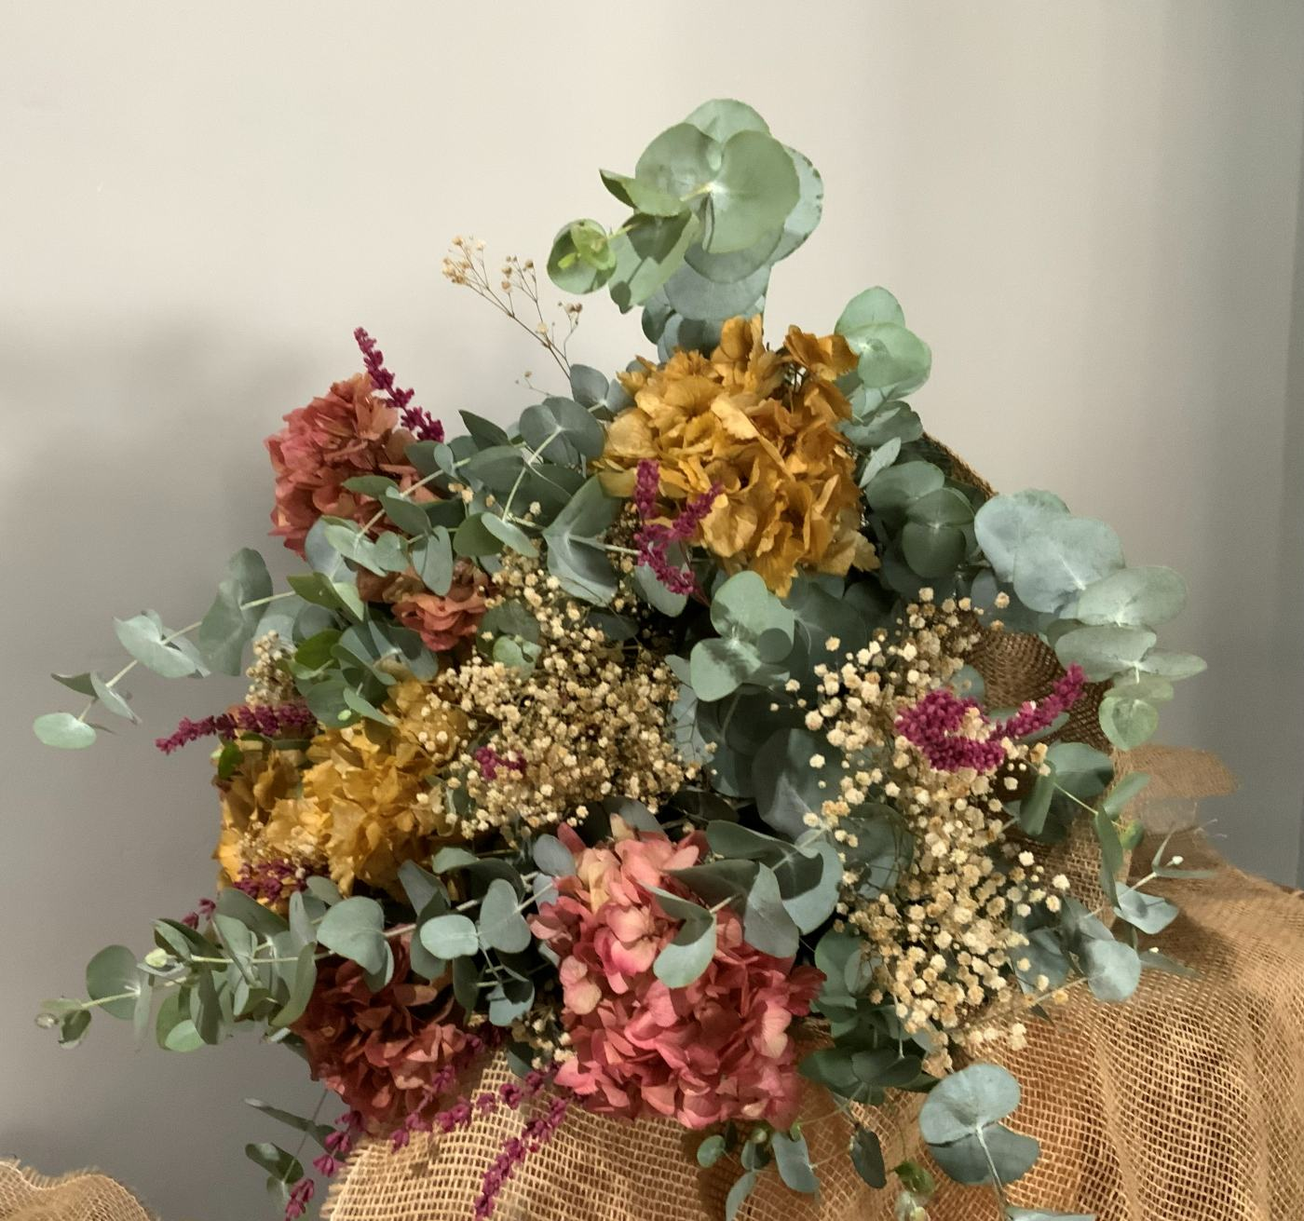
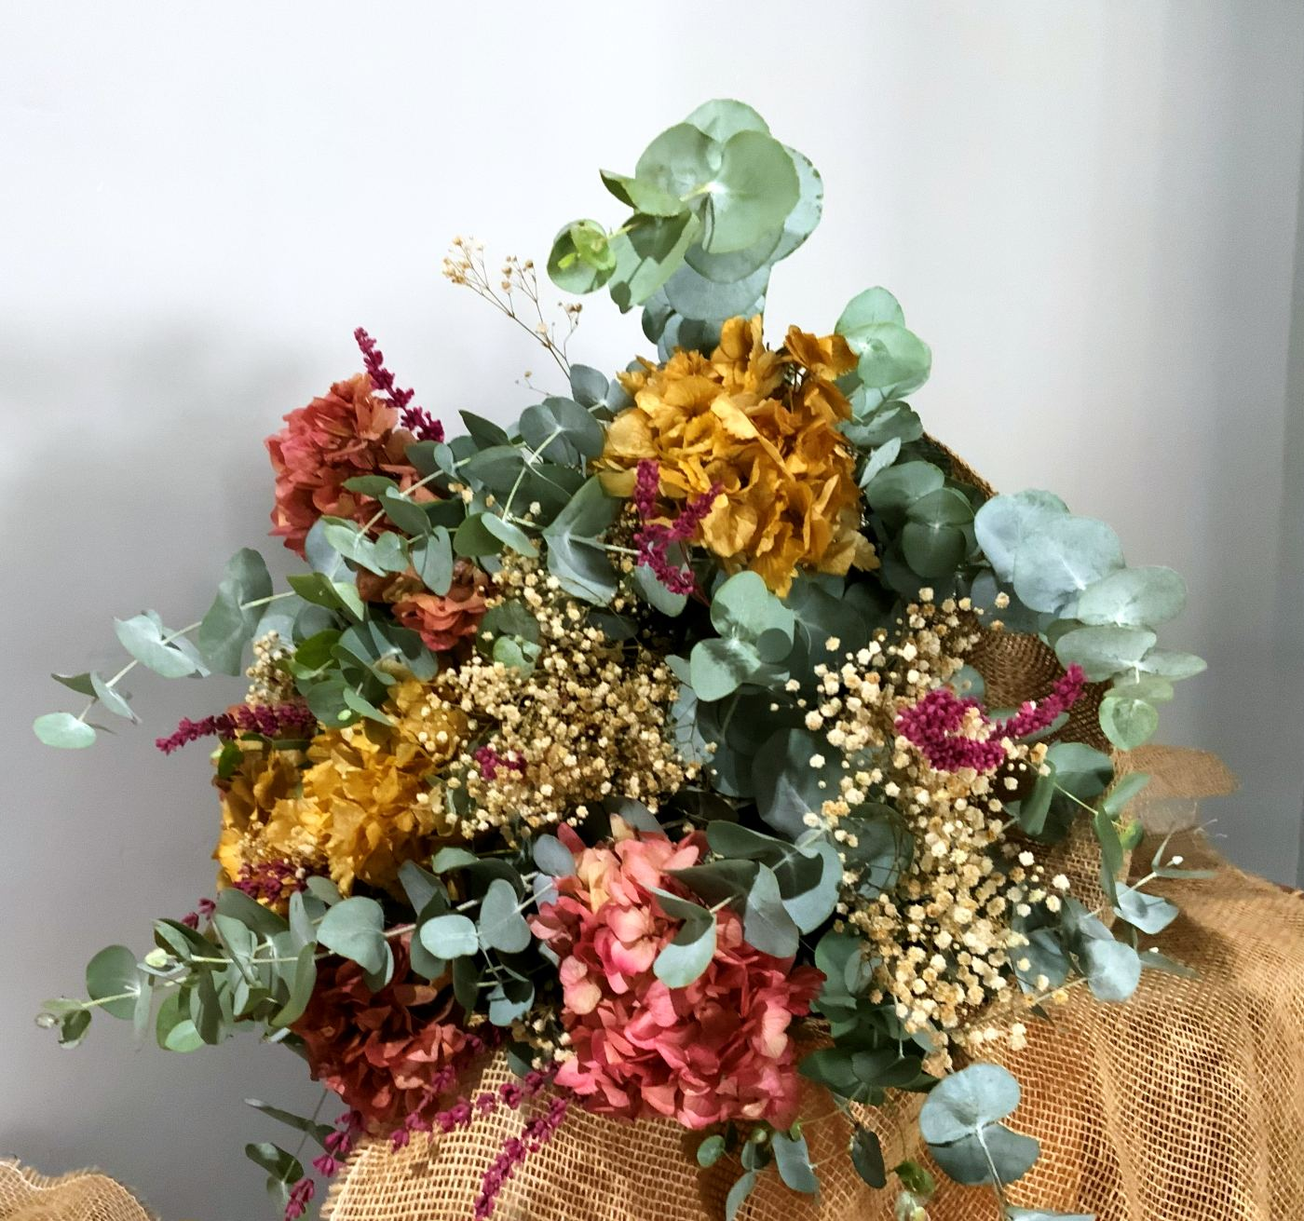
Fotos del iCloud de la tienda y retoque de color en todas las fotos

diff --git a/index.html b/index.html
@@ -11,7 +11,7 @@
 <meta property="og:type" content="website">
 <meta property="og:locale" content="es_ES">
 <!-- Imagen al compartir: cambiar la URL al dominio floressantamarta.com al publicar -->
-<meta property="og:image" content="https://kikogarciadv.github.io/floressantamarta/img/fotos/centro-lilium-hortensias.jpg">
+<meta property="og:image" content="https://kikogarciadv.github.io/floressantamarta/img/fotos/centro-peonias.jpg">
 <meta name="theme-color" content="#ffffff">
 <link rel="icon" href="favicon.svg" type="image/svg+xml">
 <!-- Versión de prueba: quitar esta línea al publicar en floressantamarta.com -->
@@ -30,7 +30,7 @@
   "foundingDate": "1945",
   "sameAs": ["https://www.instagram.com/santamartafloristas/"],
   "description": "Floristería en el centro de Córdoba desde hace más de 70 años. Ramos, bodas, eventos, Semana Santa, coronas y plantas. Miembro de Interflora.",
-  "image": "https://www.floressantamarta.com/img/fotos/centro-lilium-hortensias.jpg",
+  "image": "https://www.floressantamarta.com/img/fotos/centro-peonias.jpg",
   "telephone": "+34957470818",
   "hasMap": "https://www.google.com/maps/search/?api=1&query=Flores+Santa+Marta+Calle+Osario+20+C%C3%B3rdoba",
   "email": "floressantamarta@hotmail.com",
@@ -130,7 +130,7 @@
 
   <!-- Portada -->
   <section class="banner banner-hero">
-    <img src="img/fotos/centro-lilium-hortensias.jpg" width="1400" height="1249" alt="Centro de lilium, hortensias y delphinium hecho en la floristería" fetchpriority="high">
+    <img src="img/fotos/centro-peonias.jpg" width="1800" height="1224" alt="Centro de peonías, rosas y lilium hecho en la floristería" fetchpriority="high">
     <div class="banner-content">
       <p class="kicker">Floristas en Córdoba desde 1945</p>
       <h1>Flores Santa Marta</h1>
@@ -164,14 +164,14 @@
   <!-- Colecciones -->
   <section class="tiles" aria-label="Qué hacemos">
     <a class="tile tile-wide" id="flores" href="flores.html">
-      <img src="img/fotos/ramo-rosa-lila.jpg" width="1050" height="1400" alt="Ramo de rosas y lisianthus en tonos rosa y lila" loading="lazy">
+      <img src="img/fotos/cesta-delphinium.jpg" width="1341" height="1400" alt="Cesta de delphinium, lisianthus y paniculata" loading="lazy">
       <span class="tile-content">
         <span class="tile-title">Ramos y flores frescas</span>
         <span class="tile-text">Flor de España, Holanda y Colombia</span>
       </span>
     </a>
     <a class="tile" id="plantas" href="plantas.html">
-      <img src="img/fotos/plantas-orquideas.jpg" width="1381" height="1400" alt="Cesta de orquídeas y ciclámenes" loading="lazy">
+      <img src="img/fotos/plantas-orquidea-ciclamen.jpg" width="1381" height="1400" alt="Composición de orquídeas y ciclámenes" loading="lazy">
       <span class="tile-content">
         <span class="tile-title">Plantas</span>
         <span class="tile-text">Orquídeas, cestas y plantas para regalar</span>
@@ -185,14 +185,14 @@
       </span>
     </a>
     <a class="tile" id="bodas" href="bodas.html">
-      <img src="img/fotos/novia-paniculata.jpg" width="933" height="1400" alt="Ramo de novia de paniculata y olivo" loading="lazy">
+      <img src="img/fotos/novia-orquideas.jpg" width="1050" height="1400" alt="Ramo de novia de flor blanca y olivo" loading="lazy">
       <span class="tile-content">
         <span class="tile-title">Bodas</span>
         <span class="tile-text">Ramos de novia, iglesia y celebración</span>
       </span>
     </a>
     <a class="tile" id="eventos" href="eventos.html">
-      <img src="img/fotos/evento-mesa.jpg" width="1050" height="1400" alt="Mesa de banquete con centro alto de flores" loading="lazy">
+      <img src="img/fotos/evento-mesa-jardin.jpg" width="1400" height="1050" alt="Mesa de banquete en un jardín con centro alto de flores" loading="lazy">
       <span class="tile-content">
         <span class="tile-title">Eventos</span>
         <span class="tile-text">Congresos, empresas y celebraciones</span>
@@ -238,7 +238,7 @@
       <li><a href="https://wa.me/34616524337?text=Hola%2C%20quer%C3%ADa%20flores%20para%20un%20nacimiento" target="_blank" rel="noopener"><img src="img/fotos/planta-lisianthus.jpg" width="1400" height="1050" alt="" loading="lazy"><span>Nacimiento</span></a></li>
       <li><a href="https://wa.me/34616524337?text=Hola%2C%20quer%C3%ADa%20un%20ramo%20para%20dar%20las%20gracias" target="_blank" rel="noopener"><img src="img/fotos/ramo-lilium.jpg" width="1162" height="1400" alt="" loading="lazy"><span>Agradecimiento</span></a></li>
       <li><a href="https://wa.me/34616524337?text=Hola%2C%20quer%C3%ADa%20un%20centro%20de%20flores%20preservadas" target="_blank" rel="noopener"><img src="img/fotos/preservada-ramo.jpg" width="1400" height="1187" alt="" loading="lazy"><span>Flor preservada</span></a></li>
-      <li><a href="https://wa.me/34616524337?text=Hola%2C%20quer%C3%ADa%20decoraci%C3%B3n%20de%20Navidad" target="_blank" rel="noopener"><img src="img/fotos/navidad-centro.jpg" width="1050" height="1400" alt="" loading="lazy"><span>Navidad</span></a></li>
+      <li><a href="https://wa.me/34616524337?text=Hola%2C%20quer%C3%ADa%20decoraci%C3%B3n%20de%20Navidad" target="_blank" rel="noopener"><img src="img/fotos/navidad-centro-vela.jpg" width="1400" height="1050" alt="" loading="lazy"><span>Navidad</span></a></li>
     </ul>
   </section>
 
@@ -291,14 +291,14 @@
     <h2 class="label">Desde nuestra floristería</h2>
     <p class="section-intro">¿Te gusta alguno? Mándanos la foto y te preparamos uno parecido.</p>
     <div class="grid">
-      <img src="img/fotos/centro-rosas-burdeos.jpg" width="1400" height="952" alt="Centro de rosas burdeos, lilium y eucalipto" loading="lazy">
-      <img src="img/fotos/ramo-rosas-blancas.jpg" width="1050" height="1400" alt="Ramo de rosas blancas con lazo azul" loading="lazy">
-      <img src="img/fotos/cesta-hortensias-azules.jpg" width="1400" height="1286" alt="Cesta de hortensias azules y eucalipto" loading="lazy">
-      <img src="img/fotos/ramo-lilium-delphinium.jpg" width="1235" height="1400" alt="Ramo de lilium, hortensias y delphinium" loading="lazy">
-      <img src="img/fotos/cesta-silvestre.jpg" width="1400" height="1356" alt="Cesta de flores silvestres en tonos morados" loading="lazy">
-      <img src="img/fotos/ramo-hortensia-blanca.jpg" width="1050" height="1400" alt="Ramo de hortensias blancas y alhelí" loading="lazy">
-      <img src="img/fotos/evento-composicion.jpg" width="1400" height="1050" alt="Gran composición de hortensias, rosas y amaranto" loading="lazy">
-      <img src="img/fotos/cesta-ranunculos.jpg" width="1400" height="1400" alt="Cesta de ranúnculos, hortensias y flor de temporada" loading="lazy">
+      <img src="img/fotos/centro-santa-marta.jpg" width="1800" height="1350" alt="Centro de brezo y limonium sobre una caja de Santa Marta Floristas" loading="lazy">
+      <img src="img/fotos/ramo-lilium-jarron.jpg" width="1235" height="1400" alt="Ramo de lilium, hortensias y delphinium en jarrón" loading="lazy">
+      <img src="img/fotos/cesta-blanca.jpg" width="1400" height="1329" alt="Cesta de flores blancas con rosas y lilium" loading="lazy">
+      <img src="img/fotos/centro-azul.jpg" width="1400" height="1266" alt="Centro de hortensias azules, rosas blancas y flor silvestre" loading="lazy">
+      <img src="img/fotos/ramo-protea.jpg" width="1099" height="1400" alt="Ramo de proteas, limonium y eucalipto" loading="lazy">
+      <img src="img/fotos/ramo-rosa-jarron.jpg" width="1050" height="1400" alt="Ramo de rosas y flores en tonos rosa en jarrón" loading="lazy">
+      <img src="img/fotos/jarron-hortensia-blanca.jpg" width="1102" height="1400" alt="Hortensias blancas y eucalipto en jarrón de cristal" loading="lazy">
+      <img src="img/fotos/centro-mesa-blanco.jpg" width="899" height="1021" alt="Centro de mesa de lisianthus blanco y romero" loading="lazy">
     </div>
   </section>
 

diff --git a/flores.html b/flores.html
@@ -170,7 +170,7 @@
 <main id="contenido">
 
   <section class="banner page-hero">
-    <img src="img/fotos/centro-rosas-burdeos.jpg" width="1400" height="952" alt="Centro de rosas burdeos, lilium y eucalipto" fetchpriority="high">
+    <img src="img/fotos/centro-campestre.jpg" width="1800" height="1350" alt="Gran centro de flores en tonos lila y blanco en la tienda" fetchpriority="high">
     <div class="banner-content">
       <p class="crumbs"><a href="index.html">Inicio</a> · Ramos y flores frescas</p>
       <h1>Ramos y flores frescas</h1>
@@ -192,19 +192,19 @@
     <p class="section-intro">Todos nuestros trabajos son por encargo y se pueden personalizar.</p>
     <div class="features">
       <article class="feature">
-        <img src="img/fotos/ramo-rosa-lila.jpg" width="1050" height="1400" alt="Ramo de rosas y lisianthus en tonos rosa y lila" loading="lazy">
+        <img src="img/fotos/ramo-rosa-jarron.jpg" width="1050" height="1400" alt="Ramo de rosas y flores en tonos rosa" loading="lazy">
         <h3>Ramos</h3>
         <p>Ramos de temporada, de rosas, silvestres o de un solo tipo de flor. Envueltos con papel y lazo, listos para regalar.</p>
         <a class="more" href="https://wa.me/34616524337?text=Hola%2C%20quer%C3%ADa%20encargar%20un%20ramo" target="_blank" rel="noopener">Encargar un ramo</a>
       </article>
       <article class="feature">
-        <img src="img/fotos/cesta-margaritas.jpg" width="1400" height="1075" alt="Centro de margaritas y limonium" loading="lazy">
+        <img src="img/fotos/centro-santa-marta.jpg" width="1800" height="1350" alt="Centro de brezo y limonium sobre una caja de Santa Marta Floristas" loading="lazy">
         <h3>Centros y cajas</h3>
         <p>Centros de mesa y cajas de madera para casa, la oficina o una celebración. Se entregan ya colocados, sin necesidad de jarrón.</p>
         <a class="more" href="https://wa.me/34616524337?text=Hola%2C%20quer%C3%ADa%20encargar%20un%20centro%20de%20flores" target="_blank" rel="noopener">Encargar un centro</a>
       </article>
       <article class="feature">
-        <img src="img/fotos/cesta-lisianthus.jpg" width="1400" height="1050" alt="Cesta de lisianthus, hortensias y flor variada" loading="lazy">
+        <img src="img/fotos/cesta-blanca.jpg" width="1400" height="1329" alt="Cesta de flores blancas con rosas y lilium" loading="lazy">
         <h3>Cestas de flores</h3>
         <p>Flores colocadas en cesta, listas para regalar y sin necesidad de jarrón.</p>
         <a class="more" href="https://wa.me/34616524337?text=Hola%2C%20quer%C3%ADa%20encargar%20una%20cesta%20de%20flores" target="_blank" rel="noopener">Encargar una cesta</a>
@@ -244,17 +244,18 @@
     <h2 class="label">Algunos de nuestros ramos</h2>
     <p class="section-intro">Pulsa en una foto para verla en grande. Si te gusta una, mándanosla y te hacemos una parecida.</p>
     <div class="gallery">
-      <img src="img/fotos/ramo-lilium.jpg" width="1162" height="1400" alt="Ramo de lilium y limonium morado" loading="lazy">
-      <img src="img/fotos/ramo-peonias.jpg" width="1276" height="1400" alt="Ramo de peonías y astilbe" loading="lazy">
-      <img src="img/fotos/ramo-rosas-amarillas.jpg" width="1400" height="1338" alt="Ramo de rosas amarillas y solidago" loading="lazy">
+      <img src="img/fotos/ramo-lilium-jarron.jpg" width="1235" height="1400" alt="Ramo de lilium, hortensias y delphinium en jarrón" loading="lazy">
+      <img src="img/fotos/cesta-delphinium.jpg" width="1341" height="1400" alt="Cesta de delphinium, lisianthus y paniculata" loading="lazy">
+      <img src="img/fotos/ramo-protea.jpg" width="1099" height="1400" alt="Ramo de proteas, limonium y eucalipto" loading="lazy">
+      <img src="img/fotos/jarron-hortensia-blanca.jpg" width="1102" height="1400" alt="Hortensias blancas y eucalipto en jarrón" loading="lazy">
+      <img src="img/fotos/centro-azul.jpg" width="1400" height="1266" alt="Centro de hortensias azules, rosas blancas y flor silvestre" loading="lazy">
+      <img src="img/fotos/centro-mesa-blanco.jpg" width="899" height="1021" alt="Centro de mesa de lisianthus blanco y romero" loading="lazy">
+      <img src="img/fotos/ramo-peonias.jpg" width="1276" height="1400" alt="Ramo de peonías y rosas" loading="lazy">
+      <img src="img/fotos/ramo-rosas-amarillas.jpg" width="1400" height="1338" alt="Ramo de rosas amarillas" loading="lazy">
       <img src="img/fotos/ramo-hortensia-blanca.jpg" width="1050" height="1400" alt="Ramo de hortensias blancas y alhelí" loading="lazy">
-      <img src="img/fotos/ramo-rosas-blancas.jpg" width="1050" height="1400" alt="Ramo de rosas blancas con lazo azul" loading="lazy">
-      <img src="img/fotos/ramo-lilium-delphinium.jpg" width="1235" height="1400" alt="Ramo de lilium, hortensias y delphinium" loading="lazy">
       <img src="img/fotos/cesta-silvestre.jpg" width="1400" height="1356" alt="Cesta de flores silvestres en tonos morados" loading="lazy">
       <img src="img/fotos/cesta-ranunculos.jpg" width="1400" height="1400" alt="Cesta de ranúnculos, hortensias y flor de temporada" loading="lazy">
-      <img src="img/fotos/cesta-hortensias-azules.jpg" width="1400" height="1286" alt="Cesta de hortensias azules y eucalipto" loading="lazy">
-      <img src="img/fotos/centro-lilium-hortensias.jpg" width="1400" height="1249" alt="Centro de lilium, hortensias y delphinium" loading="lazy">
-      <img src="img/fotos/tienda-composicion.jpg" width="1400" height="1050" alt="Composición de hortensias y lisianthus en la tienda" loading="lazy">
+      <img src="img/fotos/ramo-lilium-delphinium.jpg" width="1235" height="1400" alt="Ramo de lilium, hortensias y delphinium" loading="lazy">
     </div>
   </section>
 

diff --git a/bodas.html b/bodas.html
@@ -162,7 +162,7 @@
 <main id="contenido">
 
   <section class="banner page-hero">
-    <img src="img/fotos/boda-portada-iglesia.jpg" width="1400" height="1050" alt="Portada de iglesia decorada con un arco de flores para una boda" fetchpriority="high">
+    <img src="img/fotos/boda-altar-escalinata.jpg" width="1600" height="1200" alt="Altar mayor de una iglesia decorado con flores blancas para una boda" fetchpriority="high">
     <div class="banner-content">
       <p class="crumbs"><a href="index.html">Inicio</a> · Bodas</p>
       <h1>Prepara tu boda con Santa Marta</h1>
@@ -194,7 +194,7 @@
         <p>Diademas y coronas de flores para novias y niñas de arras, prendidos para el novio y los padrinos, a juego con el ramo.</p>
       </article>
       <article class="feature">
-        <img src="img/fotos/boda-columna.jpg" width="1050" height="1400" alt="Columna de flores en la entrada de una iglesia" loading="lazy">
+        <img src="img/fotos/boda-puerta-columna.jpg" width="1037" height="1400" alt="Columna de flor blanca junto a la puerta de una iglesia" loading="lazy">
         <h3>Iglesia y celebración</h3>
         <p>Altar, bancos, pasillo y entrada de la iglesia. Centros de mesa y decoración floral del lugar del banquete.</p>
       </article>
@@ -222,21 +222,21 @@
     <h2 class="label">Bodas que hemos preparado</h2>
     <p class="section-intro">Pulsa en una foto para verla en grande.</p>
     <div class="gallery">
-      <img src="img/img-20191024-wa0019.jpg" width="1236" height="900" alt="Ramo de novia con rosas y hypericum" loading="lazy">
-      <img src="img/ramo1.jpg" width="1515" height="882" alt="Ramo de novia" loading="lazy">
-      <img src="img/ramo2.jpg" width="900" height="1600" alt="Ramo de novia" loading="lazy">
-      <img src="img/diadema2_girada.jpg" width="1600" height="900" alt="Diadema de flores" loading="lazy">
-      <img src="img/img-20191024-wa0020.jpg" width="903" height="1600" alt="Flores de boda" loading="lazy">
-      <img src="img/img-20191024-wa0026.jpg" width="1600" height="941" alt="Flores de boda" loading="lazy">
-      <img src="img/img-20191024-wa0030.jpg" width="1600" height="1466" alt="Flores de boda" loading="lazy">
-      <img src="img/img-20191024-wa0015.jpg" width="895" height="1268" alt="Flores de boda" loading="lazy">
+      <img src="img/fotos/novia-orquideas.jpg" width="1050" height="1400" alt="Ramo de novia de flor blanca y olivo" loading="lazy">
+      <img src="img/fotos/boda-portada-iglesia.jpg" width="1400" height="1050" alt="Portada de iglesia decorada con un arco de flores" loading="lazy">
+      <img src="img/fotos/novia-claveles-blancos.jpg" width="933" height="1400" alt="Ramo de novia de claveles blancos con cinta verde" loading="lazy">
+      <img src="img/fotos/boda-catedral.jpg" width="1050" height="1400" alt="Iglesia decorada con columnas de flor blanca" loading="lazy">
+      <img src="img/fotos/novia-ramo-blanco.jpg" width="1170" height="1120" alt="Ramo de novia de flor blanca con velo" loading="lazy">
+      <img src="img/fotos/boda-portada-puertas.jpg" width="1210" height="1400" alt="Puerta de iglesia con dos columnas de flor blanca" loading="lazy">
+      <img src="img/fotos/novia-ramo-cardo.jpg" width="1170" height="823" alt="Ramo de novia de cardo, eucalipto y brezo" loading="lazy">
+      <img src="img/fotos/boda-entrada-flores-rojas.jpg" width="1400" height="1050" alt="Entrada decorada con columnas de flores rojas" loading="lazy">
+      <img src="img/fotos/boda-altar-lateral.jpg" width="1400" height="1050" alt="Escalinata del altar con flores blancas" loading="lazy">
       <img src="img/fotos/novia-silvestre.jpg" width="739" height="902" alt="Ramo de novia silvestre con margaritas" loading="lazy">
-      <img src="img/img-20191024-wa0035.jpg" width="1200" height="1600" alt="Decoración floral de boda" loading="lazy">
-      <img src="img/img-20191024-wa0038.jpg" width="1200" height="1600" alt="Decoración floral de boda" loading="lazy">
-      <img src="img/img-20191024-wa0049.jpg" width="1600" height="903" alt="Decoración floral de boda" loading="lazy">
+      <img src="img/fotos/boda-columna-flores.jpg" width="1050" height="1400" alt="Columna de flores en la puerta de una iglesia" loading="lazy">
+      <img src="img/fotos/boda-banquete.jpg" width="1050" height="1400" alt="Mesa de banquete en un jardín con centro alto de flores" loading="lazy">
       <img src="img/fotos/preservada-ramo-novia.jpg" width="1146" height="1400" alt="Ramo de novia de peonías preservadas y cardo" loading="lazy">
-      <img src="img/img-20191024-wa0046.jpg" width="1600" height="903" alt="Decoración floral de boda" loading="lazy">
-      <img src="img/img-20191024-wa0045.jpg" width="831" height="1020" alt="Decoración floral de boda" loading="lazy">
+      <img src="img/fotos/boda-portada-cesta.jpg" width="1008" height="1400" alt="Portada de iglesia con columna de flores y cesta" loading="lazy">
+      <img src="img/fotos/boda-columna.jpg" width="1050" height="1400" alt="Columna de flores en la entrada de una iglesia" loading="lazy">
       <img src="img/fotos/novia-claveles.jpg" width="750" height="796" alt="Ramo de novia de claveles rosas" loading="lazy">
     </div>
   </section>

diff --git a/plantas.html b/plantas.html
@@ -144,13 +144,13 @@
     <h2 class="label">Qué puedes encontrar</h2>
     <div class="features features-2" style="margin-top:44px">
       <article class="feature">
-        <img src="img/fotos/plantas-orquideas.jpg" width="1381" height="1400" alt="Cesta de orquídeas y ciclámenes" loading="lazy">
+        <img src="img/fotos/plantas-orquidea-ciclamen.jpg" width="1381" height="1400" alt="Composición de orquídeas y ciclámenes" loading="lazy">
         <h3>Orquídeas</h3>
         <p>Orquídeas sueltas y centros de orquídeas. Elegantes, fáciles de cuidar y con flor durante semanas.</p>
         <a class="more" href="https://wa.me/34616524337?text=Hola%2C%20quer%C3%ADa%20una%20orqu%C3%ADdea" target="_blank" rel="noopener">Encargar una orquídea</a>
       </article>
       <article class="feature">
-        <img src="img/fotos/plantas-espatifilo.jpg" width="1263" height="1400" alt="Cesta de espatifilo, kalanchoe y plantas de temporada" loading="lazy">
+        <img src="img/fotos/plantas-espatifilo-2.jpg" width="1200" height="1400" alt="Cesta de espatifilo, begonias y brezo" loading="lazy">
         <h3>Cestas y centros de plantas</h3>
         <p>Varias plantas combinadas en mimbre o madera. Un regalo que alegra cualquier rincón y se mantiene meses.</p>
         <a class="more" href="https://wa.me/34616524337?text=Hola%2C%20quer%C3%ADa%20una%20cesta%20de%20plantas" target="_blank" rel="noopener">Encargar una cesta</a>

diff --git a/eventos.html b/eventos.html
@@ -123,7 +123,7 @@
 <main id="contenido">
 
   <section class="banner page-hero">
-    <img src="img/fotos/evento-jardin.jpg" width="1400" height="1050" alt="Mesas de un evento al aire libre con jarrones de flores" fetchpriority="high">
+    <img src="img/fotos/evento-banquete-jardin.jpg" width="1800" height="1350" alt="Banquete en un jardín con centros altos de flores" fetchpriority="high">
     <div class="banner-content">
       <p class="crumbs"><a href="index.html">Inicio</a> · Eventos</p>
       <h1>Eventos</h1>
@@ -149,7 +149,7 @@
         <a class="more" href="https://wa.me/34616524337?text=Hola%2C%20quer%C3%ADa%20presupuesto%20de%20flores%20para%20un%20evento%20de%20empresa" target="_blank" rel="noopener">Pedir presupuesto</a>
       </article>
       <article class="feature">
-        <img src="img/fotos/navidad-acebo.jpg" width="917" height="1400" alt="Composición navideña de acebo, eucalipto y amaranto" loading="lazy">
+        <img src="img/fotos/navidad-centro-vela.jpg" width="1400" height="1050" alt="Centro de Navidad con abeto, protea y vela" loading="lazy">
         <h3>Navidad</h3>
         <p>Flores de pascua, centros de mesa para las cenas navideñas y decoración para casas, comercios y oficinas.</p>
         <a class="more" href="https://wa.me/34616524337?text=Hola%2C%20quer%C3%ADa%20decoraci%C3%B3n%20de%20Navidad" target="_blank" rel="noopener">Encargar para Navidad</a>

diff --git a/artificiales.html b/artificiales.html
@@ -109,7 +109,7 @@
 <main id="contenido">
 
   <section class="banner page-hero">
-    <img src="img/fotos/preservada-centro-2.jpg" width="1400" height="1050" alt="Centro de flor seca y preservada con eucalipto" fetchpriority="high">
+    <img src="img/fotos/seca-hortensias.jpg" width="1800" height="1686" alt="Composición de hortensias preservadas, paniculata y eucalipto" fetchpriority="high">
     <div class="banner-content">
       <p class="crumbs"><a href="index.html">Inicio</a> · Flores artificiales y preservadas</p>
       <h1>Flores artificiales y preservadas</h1>
@@ -153,6 +153,8 @@
       <img src="img/florartificial4.jpg" width="903" height="1600" alt="Flores artificiales" loading="lazy">
       <img src="img/florartificial1.jpg" width="1600" height="1043" alt="Flores artificiales" loading="lazy">
       <img src="img/fotos/preservada-lavanda.jpg" width="1400" height="967" alt="Ramos de flor seca atados con rafia" loading="lazy">
+      <img src="img/fotos/seco-ramo-lazo.jpg" width="1400" height="1331" alt="Ramo de flor seca con lazo rosa" loading="lazy">
+      <img src="img/fotos/seco-centro.jpg" width="1400" height="1200" alt="Centro de flor seca y preservada" loading="lazy">
     </div>
   </section>
 

diff --git a/nosotros.html b/nosotros.html
@@ -98,7 +98,7 @@
 <main id="contenido">
 
   <section class="banner page-hero">
-    <img src="img/fotos/tienda-composicion.jpg" width="1400" height="1050" alt="Composición de hortensias y lisianthus en la tienda" fetchpriority="high">
+    <img src="img/fotos/centro-santa-marta.jpg" width="1800" height="1350" alt="Centro de flores sobre una caja de Santa Marta Floristas" fetchpriority="high">
     <div class="banner-content">
       <p class="crumbs"><a href="index.html">Inicio</a> · Nuestra historia</p>
       <h1>Nuestra historia</h1>

diff --git a/condolencias.html b/condolencias.html
@@ -184,7 +184,7 @@
 
   <section class="split">
     <div class="split-media">
-      <img src="img/img_20191105_181154_1.jpg" width="1250" height="1600" alt="Centro de flores blancas" loading="lazy">
+      <img src="img/fotos/cesta-blanca.jpg" width="1400" height="1329" alt="Cesta de flores blancas con rosas y lilium" loading="lazy">
     </div>
     <div class="split-text">
       <h2 class="label">Qué preparamos</h2>
